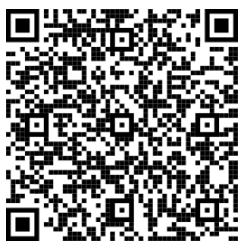
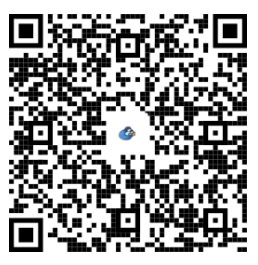
change apk
dasdasd

diff --git a/frontend/src/pages/Homepage.jsx b/frontend/src/pages/Homepage.jsx
@@ -51,7 +51,7 @@ function Homepage() {
 
     // Download the Android APK
     if (platform === 'android') {
-      window.open('https://drive.google.com/uc?export=download&id=1emDP41QVpoq0fa3g1RLiFgfc7nD8Ropi', '_blank');
+      window.open('https://drive.google.com/uc?export=download&id=1HsU9AvE9sdp_cdGFu2tKKfhVM-N2_p1M', '_blank');
     }
   };
 
